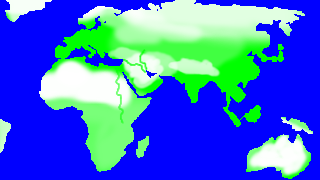
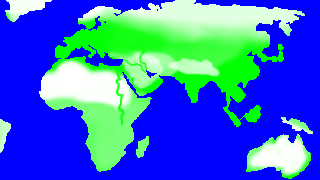
Pointers

diff --git a/human.go b/human.go
@@ -7,13 +7,14 @@ import (
 )
 
 var upperPopCap int = 100000
-var baseGrowthRate float32 = 0.05
+var baseGrowthRate float32 = 0.02
+var baseMigrationRate float32 = 0.05
 
 type humanCell struct {
-	population         int
-	x                  int
-	y                  int
-	adjacentCellCoords []coordinate
+	x             int
+	y             int
+	adjacentCells []*humanCell
+	population    int
 }
 
 type coordinate struct {
@@ -27,19 +28,39 @@ type HumanGrid struct {
 	areaChanges []humanCell
 	width       int
 	height      int
-	generation  uint64
+	generation  int
 	areaWorld   *mapGrid
 }
 
-func getNeighborsCoordinates(world []humanCell, width, height, x, y int) []coordinate {
+func (w *HumanGrid) CellAt(x, y int) *humanCell {
+	return &w.area[y*w.width+x]
+}
+
+func (w *HumanGrid) ChangesCellAt(x, y int) *humanCell {
+	return &w.areaChanges[y*w.width+x]
+}
+
+func (w *HumanGrid) MapCellAt(x, y int) *mapCell {
+	return &w.areaWorld.area[y*w.width+x]
+}
+
+func (w *HumanGrid) CorrChangesCellOf(cell *humanCell) *humanCell {
+	return w.ChangesCellAt(cell.x, cell.y)
+}
+
+func (w *HumanGrid) CorrWorldCellOf(cell *humanCell) *mapCell {
+	return w.MapCellAt(cell.x, cell.y)
+}
+
+func getNeighborsCoordinates(width, height, x, y int) []coordinate {
 	coords := make([]coordinate, 0, 4)
-	if y < height {
+	if y < height-1 {
 		coords = append(coords, coordinate{x, y + 1})
 	}
 	if y > 0 {
 		coords = append(coords, coordinate{x, y - 1})
 	}
-	if x < width {
+	if x < width-1 {
 		coords = append(coords, coordinate{x + 1, y})
 	}
 	if x > 0 {
@@ -49,7 +70,16 @@ func getNeighborsCoordinates(world []humanCell, width, height, x, y int) []coord
 }
 
 func (c *humanCell) GenNeighbors(world *HumanGrid) {
-	c.adjacentCellCoords = getNeighborsCoordinates(world.area, world.width, world.height, c.x, c.y)
+	adjCoords := getNeighborsCoordinates(world.width, world.height, c.x, c.y)
+	c.adjacentCells = make([]*humanCell, 0, len(adjCoords))
+	for _, adjC := range adjCoords {
+		c.adjacentCells = append(c.adjacentCells, world.CellAt(adjC.x, adjC.y))
+	}
+}
+
+func (c *humanCell) initCell(x, y int, world *HumanGrid) {
+	c.x, c.y = x, y
+	c.GenNeighbors(world)
 }
 
 // init inits humanGrid with a random population
@@ -58,8 +88,8 @@ func (w *HumanGrid) init(maxLiveCells int) {
 	height := w.height
 	for y := 0; y < height; y++ {
 		for x := 0; x < width; x++ {
-			w.area[y*width+x].x, w.area[y*width+x].y = x, y
-			w.area[y*width+x].GenNeighbors(w)
+			w.area[y*width+x].initCell(x, y, w)
+			w.areaChanges[y*width+x].initCell(x, y, w)
 		}
 	}
 
@@ -67,8 +97,9 @@ func (w *HumanGrid) init(maxLiveCells int) {
 	for i := 0; i < maxLiveCells; i++ {
 		x := rand.Intn(width)
 		y := rand.Intn(height)
-		if w.areaWorld.area[y*width+x].isLand {
-			w.area[y*width+x].population = rand.Intn(upperPopCap / 2)
+		mc := w.MapCellAt(x, y)
+		if mc.isLand {
+			w.CellAt(x, y).population = rand.Intn(upperPopCap / 2)
 		}
 	}
 }
@@ -85,14 +116,6 @@ func NewHumanGrid(m mapGrid, width, height int, maxInitLiveCells int) *HumanGrid
 	}
 	w.init(maxInitLiveCells)
 	return w
-}
-
-func (w *HumanGrid) CellAt(x int, y int) *humanCell {
-	return &w.area[y*w.width+x]
-}
-
-func (w *HumanGrid) ChangesCellAt(x int, y int) *humanCell {
-	return &w.areaChanges[y*w.width+x]
 }
 
 //lint:ignore U1000 Might switch
@@ -115,19 +138,19 @@ func getNeighborsCoordinatesMoore(world []humanCell, width, height, x, y int) []
 	return coords
 }
 
-func (w *HumanGrid) getNeighborsForMigration(x, y int, printDebugInfo bool) []coordinate {
-	validNeighbors := make([]coordinate, 0, 4)
+func (w *HumanGrid) getNeighborsForMigration(cell *humanCell, printDebugInfo bool) []*humanCell {
+	validNeighbors := make([]*humanCell, 0, 4)
 
-	for _, n := range w.CellAt(x, y).adjacentCellCoords {
+	for _, n := range cell.adjacentCells {
 		//TODO: Make this nicer or just remove the debug
-		if w.CellAt(n.x, n.y).population > upperPopCap {
+		if n.population > upperPopCap {
 			if printDebugInfo {
 				fmt.Printf("Neighbor at [%d,%d] skipped: OVERPOP\n", n.x, n.y)
 			}
 			continue
 		}
 
-		if !w.areaWorld.CellAt(n.x, n.y).isLand {
+		if !w.CorrWorldCellOf(n).isLand {
 			if printDebugInfo {
 				fmt.Printf("Neighbor at [%d,%d] skipped: NOTLAND\n", n.x, n.y)
 			}
@@ -139,40 +162,49 @@ func (w *HumanGrid) getNeighborsForMigration(x, y int, printDebugInfo bool) []co
 	return validNeighbors
 }
 
-func (w *HumanGrid) updatePopGrowthAt(x, y int) {
-	pop := w.CellAt(x, y).population
+func (w *HumanGrid) calcPopChange(cell *humanCell) int {
+	return int((w.CorrWorldCellOf(cell).habitability - rand.Float32()) * baseGrowthRate * float32(cell.population))
+}
+
+func (w *HumanGrid) updatePopGrowthOf(cell *humanCell) {
+	pop := cell.population
 	if pop > 2 && pop < upperPopCap {
-		w.ChangesCellAt(x, y).population +=
-			int((w.areaWorld.CellAt(x, y).habitability - rand.Float32()) * baseGrowthRate * float32(pop))
+		popChange := w.calcPopChange(cell)
+		if popChange >= pop {
+			popChange = pop
+		}
+		w.CorrChangesCellOf(cell).population += popChange
 	}
 }
 
-func (w *HumanGrid) updateMigrationAt(x, y int) {
-	pop := w.CellAt(x, y).population
+func (w *HumanGrid) updateMigrationOf(cell *humanCell) {
+	pop := cell.population
+	corrChangesCell := w.CorrChangesCellOf(cell)
 	if pop < 0 {
 		fmt.Printf("Something has went terribly wrong...\n")
 	}
 	if pop < 20 {
-		w.CellAt(x, y).population += w.CellAt(x, y).population
+		corrChangesCell.population += cell.population
 		return
 	}
 
-	validNeighbors := w.getNeighborsForMigration(x, y, false)
+	validNeighbors := w.getNeighborsForMigration(cell, false)
 	if len(validNeighbors) == 0 {
 		return
 	}
-	chosenDirection := rand.Intn(len(validNeighbors))
-	chosenDirectionX, chosenDirectionY := validNeighbors[chosenDirection].x, validNeighbors[chosenDirection].y
 
-	cc := int(float32(pop) * 0.05)
-
+	cc := int(float32(pop) * baseMigrationRate)
 	if cc <= 0 {
 		return
 	}
 
+	cIndex := rand.Intn(len(validNeighbors))
+	chosenCell := validNeighbors[cIndex]
+	chosenChangesCell := w.ChangesCellAt(chosenCell.x, chosenCell.y)
+
 	peopleMoving := rand.Intn(cc)
-	w.ChangesCellAt(chosenDirectionX, chosenDirectionY).population += peopleMoving
-	w.ChangesCellAt(x, y).population -= peopleMoving
+	chosenChangesCell.population += peopleMoving
+	corrChangesCell.population -= peopleMoving
 }
 
 func (w *HumanGrid) applyChangesArea() {
@@ -193,12 +225,17 @@ func (w *HumanGrid) applyChangesArea() {
 
 // Update game state by one tick.
 func (w *HumanGrid) Update() {
+
+	//Sinusoidal pop growth for fun
+	//baseGrowthRate = float32((math.Sin(float64(w.generation) / 250)) * 0.05)
+
 	width := w.width
 	height := w.height
 	for y := 0; y < height; y++ {
 		for x := 0; x < width; x++ {
-			w.updatePopGrowthAt(x, y)
-			w.updateMigrationAt(x, y)
+			c := w.CellAt(x, y)
+			w.updatePopGrowthOf(c)
+			w.updateMigrationOf(c)
 		}
 	}
 	w.applyChangesArea()

diff --git a/input.go b/input.go
@@ -19,9 +19,11 @@ func (w HumanGrid) genCellInfoAtCursor() string {
 
 func (w HumanGrid) clickDebug() {
 	cursorX, cursorY := ebiten.CursorPosition()
-	if cursorX >= 0 && cursorX < screenWidth-1 && cursorY >= 0 && cursorY < screenHeight-1 {
+	if cursorX >= 0 && cursorX < screenWidth && cursorY >= 0 && cursorY < screenHeight {
+		c := w.CellAt(cursorX, cursorY)
 		if inpututil.IsMouseButtonJustPressed(ebiten.MouseButton0) {
-			fmt.Printf("\n[%d,%d] neighbors: %v\n", cursorX, cursorY, w.getNeighborsForMigration(cursorX, cursorY, true))
+			fmt.Printf("* Click at [%d,%d]:\nHuman: %v\nMap: %v\n*\n",
+				cursorX, cursorY, c, w.CorrWorldCellOf(c))
 		}
 	}
 }
